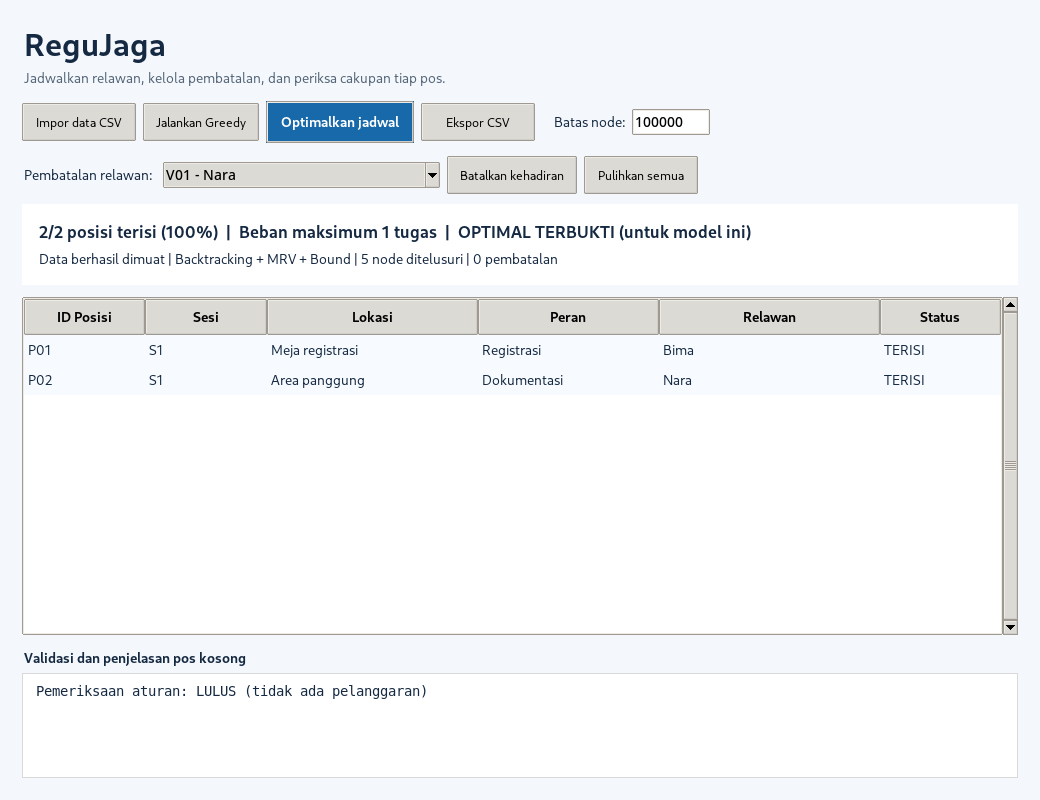
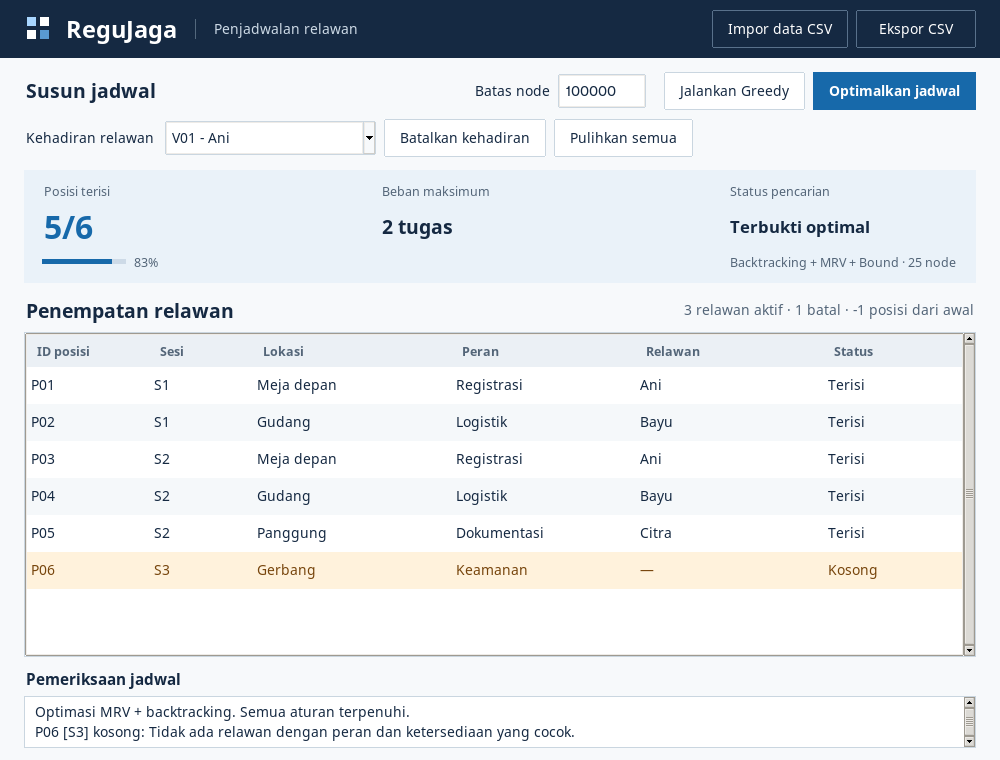
Rapikan GUI Tkinter dan perjelas status penempatan relawan

diff --git a/src/regujaga/ui.py b/src/regujaga/ui.py
@@ -1,7 +1,7 @@
 """Antarmuka desktop Tkinter/ttk untuk koordinator relawan."""
 from pathlib import Path
 import tkinter as tk
-from tkinter import filedialog, messagebox, ttk
+from tkinter import filedialog, font as tkfont, messagebox, ttk
 
 from .baseline import greedy_schedule
 from .csv_io import export_schedule, load_project
@@ -16,7 +16,9 @@ if not DEMO_ROOT.is_dir():
 DEMO = DEMO_ROOT / "01_jebakan_greedy"
 NAVY = "#152942"
 BLUE = "#1769AA"
-BG = "#F4F7FB"
+BG = "#F7F9FB"
+PANEL = "#EAF2F9"
+LINE = "#CAD6E0"
 MUTED = "#536578"
 
 
@@ -24,8 +26,10 @@ class ReguJagaApp:
     def __init__(self, root: tk.Tk):
         self.root = root
         root.title("ReguJaga | Penjadwalan Relawan")
-        root.geometry("1040x800")
-        root.minsize(850, 700)
+        width = min(1000, max(760, root.winfo_screenwidth() - 40))
+        height = min(760, max(550, root.winfo_screenheight() - 100))
+        root.geometry(f"{width}x{height}")
+        root.minsize(760, 550)
         root.configure(bg=BG)
         self.volunteers: list[Volunteer] = []
         self.positions: list[Position] = []
@@ -36,7 +40,10 @@ class ReguJagaApp:
         self.file_positions = DEMO / "positions.csv"
         self.max_nodes_var = tk.StringVar(value="100000")
         self.summary_var = tk.StringVar(value="Muat data untuk memulai")
-        self.detail_var = tk.StringVar(value="Data contoh menggunakan nama fiktif.")
+        self.detail_var = tk.StringVar()
+        self.optimal_var = tk.StringVar()
+        self.load_var = tk.StringVar()
+        self.attendance_var = tk.StringVar()
         self.cancel_var = tk.StringVar()
         self._configure_style()
         self._build()
@@ -45,75 +52,131 @@ class ReguJagaApp:
     def _configure_style(self) -> None:
         style = ttk.Style(self.root)
         style.theme_use("clam")
-        style.configure("TFrame", background=BG)
-        style.configure("TLabel", background=BG, foreground=NAVY, font=("Segoe UI", 10))
-        style.configure("Title.TLabel", background=BG, foreground=NAVY, font=("Segoe UI", 23, "bold"))
-        style.configure("Subtitle.TLabel", background=BG, foreground=MUTED, font=("Segoe UI", 10))
-        style.configure("Card.TFrame", background="white")
-        style.configure("Card.TLabel", background="white", foreground=NAVY, font=("Segoe UI", 10))
-        style.configure("Accent.TButton", padding=(12, 9), font=("Segoe UI", 10, "bold"),
-                        background=BLUE, foreground="white")
-        style.map("Accent.TButton", background=[("active", "#125283")])
-        style.configure("TButton", padding=(10, 8), font=("Segoe UI", 9))
-        style.configure("Treeview", font=("Segoe UI", 10), rowheight=30,
-                        background="white", fieldbackground="white", foreground=NAVY)
-        style.configure("Treeview.Heading", font=("Segoe UI", 10, "bold"), padding=7)
-        style.map("Treeview", background=[("selected", "#D9ECFA")], foreground=[("selected", NAVY)])
+        families = set(tkfont.families(self.root))
+        self.family = next((name for name in ("Segoe UI", "Inter", "Noto Sans")
+                            if name in families), tkfont.nametofont("TkDefaultFont").actual("family"))
+        self.body_font = (self.family, 10)
+        self.root.option_add("*TCombobox*Listbox.font", self.body_font)
+        style.configure(".", font=self.body_font, foreground=NAVY, background=BG)
+        style.configure("TButton", background="white", bordercolor=LINE, lightcolor="white",
+                        darkcolor="white", focuscolor=BLUE, padding=(13, 6), borderwidth=1)
+        style.map("TButton", background=[("pressed", "#D8E6F3"), ("active", "#EDF4FA")],
+                  foreground=[("disabled", MUTED)])
+        style.configure("Accent.TButton", background=BLUE, foreground="white", bordercolor=BLUE,
+                        lightcolor=BLUE, darkcolor=BLUE, focuscolor="white", font=(self.family, 10, "bold"))
+        style.map("Accent.TButton", background=[("pressed", "#114C80"), ("active", "#155D99")])
+        style.configure("TEntry", fieldbackground="white", padding=6, bordercolor=LINE)
+        style.configure("TCombobox", padding=5, arrowsize=13, bordercolor=LINE)
+        style.map("TCombobox", fieldbackground=[("readonly", "white")])
+        style.configure("Treeview", background="white", fieldbackground="white",
+                        borderwidth=0, rowheight=tkfont.Font(font=self.body_font).metrics("linespace") + 17)
+        style.configure("Treeview.Heading", background="#EBF0F5", foreground=MUTED,
+                        font=(self.family, 9, "bold"), padding=(10, 7), relief="flat",
+                        borderwidth=0)
+        style.map("Treeview", background=[("selected", "#CFE4F6")], foreground=[("selected", NAVY)])
+        style.configure("TScrollbar", arrowsize=10, background="#C3D0DA", troughcolor="#F6F8FA",
+                        borderwidth=0, relief="flat")
+        style.configure("Header.TButton", background=NAVY, foreground="white", bordercolor="#59718B",
+                        lightcolor=NAVY, darkcolor=NAVY, focuscolor="white")
+        style.map("Header.TButton", background=[("active", "#2B4968")])
 
     def _build(self) -> None:
-        outer = ttk.Frame(self.root, padding=22)
-        outer.pack(fill="both", expand=True)
-        ttk.Label(outer, text="ReguJaga", style="Title.TLabel").pack(anchor="w")
-        ttk.Label(outer, text="Jadwalkan relawan, kelola pembatalan, dan periksa cakupan tiap pos.",
-                  style="Subtitle.TLabel").pack(anchor="w", pady=(2, 12))
+        header = tk.Frame(self.root, bg=NAVY, padx=24, pady=10)
+        header.pack(fill="x")
+        mark = tk.Canvas(header, width=30, height=30, bg=NAVY, highlightthickness=0)
+        mark.pack(side="left", padx=(0, 10))
+        for x, y, color in ((3, 3, "#A8D6FF"), (16, 3, "white"),
+                            (3, 16, "white"), (16, 16, "#599AD2")):
+            mark.create_rectangle(x, y, x + 9, y + 9, fill=color, outline="")
+        tk.Label(header, text="ReguJaga", bg=NAVY, fg="white",
+                 font=(self.family, 17, "bold")).pack(side="left")
+        tk.Frame(header, bg="#53687D", width=1, height=20).pack(side="left", padx=16)
+        tk.Label(header, text="Penjadwalan relawan", bg=NAVY, fg="#CCD9E5",
+                 font=self.body_font).pack(side="left")
+        ttk.Button(header, text="Ekspor CSV", style="Header.TButton", command=self.export_csv).pack(side="right")
+        ttk.Button(header, text="Impor data CSV", style="Header.TButton", command=self.import_csv).pack(side="right", padx=8)
 
-        toolbar = ttk.Frame(outer)
-        toolbar.pack(fill="x", pady=(0, 10))
-        ttk.Button(toolbar, text="Impor data CSV", command=self.import_csv).pack(side="left", padx=(0, 7))
-        ttk.Button(toolbar, text="Jalankan Greedy", command=self.run_greedy).pack(side="left", padx=(0, 7))
-        ttk.Button(toolbar, text="Optimalkan jadwal", style="Accent.TButton",
-                   command=self.optimize).pack(side="left", padx=(0, 7))
-        ttk.Button(toolbar, text="Ekspor CSV", command=self.export_csv).pack(side="left", padx=(0, 7))
-        ttk.Label(toolbar, text="Batas node:").pack(side="left", padx=(10, 4))
-        ttk.Entry(toolbar, textvariable=self.max_nodes_var, width=9).pack(side="left")
+        outer = ttk.Frame(self.root, padding=(24, 14, 24, 12))
+        outer.pack(fill="both", expand=True)
+        tools = ttk.Frame(outer)
+        tools.pack(fill="x")
+        ttk.Label(tools, text="Susun jadwal", font=(self.family, 14, "bold")).pack(side="left")
+        ttk.Button(tools, text="Optimalkan jadwal", style="Accent.TButton",
+                   command=self.optimize).pack(side="right")
+        ttk.Button(tools, text="Jalankan Greedy", command=self.run_greedy).pack(side="right", padx=8)
+        ttk.Entry(tools, textvariable=self.max_nodes_var, width=8).pack(side="right", padx=(6, 10))
+        ttk.Label(tools, text="Batas node").pack(side="right")
 
         action = ttk.Frame(outer)
-        action.pack(fill="x", pady=(3, 10))
-        ttk.Label(action, text="Pembatalan relawan:").pack(side="left", padx=(0, 8))
-        self.cancel_box = ttk.Combobox(action, textvariable=self.cancel_var, state="readonly", width=32)
-        self.cancel_box.pack(side="left", padx=(0, 7))
-        ttk.Button(action, text="Batalkan kehadiran", command=self.cancel_volunteer).pack(side="left", padx=(0, 7))
-        ttk.Button(action, text="Pulihkan semua", command=self.reset_cancellations).pack(side="left")
+        action.pack(fill="x", pady=(9, 13))
+        ttk.Label(action, text="Kehadiran relawan").pack(side="left", padx=(0, 9))
+        self.cancel_box = ttk.Combobox(action, textvariable=self.cancel_var, state="readonly",
+                                       font=self.body_font, width=23)
+        self.cancel_box.pack(side="left")
+        self.cancel_button = ttk.Button(action, text="Batalkan kehadiran", command=self.cancel_volunteer)
+        self.cancel_button.pack(side="left", padx=8)
+        self.restore_button = ttk.Button(action, text="Pulihkan semua", command=self.reset_cancellations)
+        self.restore_button.pack(side="left")
 
-        summary = ttk.Frame(outer, style="Card.TFrame", padding=15)
-        summary.pack(fill="x", pady=(0, 12))
-        ttk.Label(summary, textvariable=self.summary_var, style="Card.TLabel",
-                  font=("Segoe UI", 12, "bold")).pack(anchor="w")
-        ttk.Label(summary, textvariable=self.detail_var, style="Card.TLabel",
-                  wraplength=940).pack(anchor="w", pady=(4, 0))
+        self._build_summary(outer)
+        self._build_table(outer)
+        ttk.Label(outer, text="Pemeriksaan jadwal", font=(self.family, 11, "bold")).pack(
+            anchor="w", pady=(9, 4))
+        notes = tk.Frame(outer, bg="white", highlightthickness=1, highlightbackground=LINE)
+        notes.pack(fill="x")
+        self.log = tk.Text(notes, height=2, bg="white", fg=NAVY, relief="flat", borderwidth=0,
+                           font=self.body_font, wrap="word", padx=10, pady=5,
+                           highlightthickness=0, state="disabled")
+        scroll = ttk.Scrollbar(notes, orient="vertical", command=self.log.yview)
+        self.log.configure(yscrollcommand=scroll.set)
+        scroll.pack(side="right", fill="y")
+        self.log.pack(side="left", fill="x", expand=True)
 
-        frame = ttk.Frame(outer)
+    def _build_summary(self, parent: ttk.Frame) -> None:
+        band = tk.Frame(parent, bg=PANEL, padx=18, pady=10)
+        band.pack(fill="x")
+        band.columnconfigure(0, weight=1)
+        band.columnconfigure(1, weight=1)
+        for column, label in enumerate(("Posisi terisi", "Beban maksimum", "Status pencarian")):
+            tk.Label(band, text=label, bg=PANEL, fg=MUTED, font=(self.family, 9)).grid(
+                row=0, column=column, sticky="w", padx=(0, 16))
+        tk.Label(band, textvariable=self.summary_var, font=(self.family, 23, "bold"),
+                 bg=PANEL, fg=BLUE).grid(row=1, column=0, sticky="w")
+        coverage = tk.Frame(band, bg=PANEL)
+        coverage.grid(row=2, column=0, sticky="w")
+        self.coverage_bar = tk.Canvas(coverage, width=84, height=5, bg="#CDDAE7",
+                                      highlightthickness=0, borderwidth=0)
+        self.coverage_bar.pack(side="left")
+        self.coverage_fill = self.coverage_bar.create_rectangle(0, 0, 0, 5, fill=BLUE, outline="")
+        self.percentage_label = tk.Label(coverage, bg=PANEL, fg=MUTED, font=(self.family, 9))
+        self.percentage_label.pack(side="left", padx=(6, 0))
+        tk.Label(band, textvariable=self.load_var, bg=PANEL, fg=NAVY,
+                 font=(self.family, 14, "bold")).grid(row=1, column=1, sticky="w")
+        tk.Label(band, textvariable=self.optimal_var, bg=PANEL, fg=NAVY,
+                 font=(self.family, 12, "bold")).grid(row=1, column=2, sticky="w")
+        tk.Label(band, textvariable=self.detail_var, bg=PANEL, fg=MUTED,
+                 font=(self.family, 9)).grid(row=2, column=2, sticky="w")
+
+    def _build_table(self, parent: ttk.Frame) -> None:
+        title = ttk.Frame(parent)
+        title.pack(fill="x", pady=(12, 6))
+        ttk.Label(title, text="Penempatan relawan", font=(self.family, 14, "bold")).pack(side="left")
+        ttk.Label(title, textvariable=self.attendance_var, foreground=MUTED).pack(side="right")
+        frame = tk.Frame(parent, bg="white", highlightthickness=1, highlightbackground=LINE)
         frame.pack(fill="both", expand=True)
-        columns = ("id", "slot", "location", "role", "volunteer", "status")
-        self.tree = ttk.Treeview(frame, columns=columns, show="headings", height=7)
-        headers = {"id": "ID Posisi", "slot": "Sesi", "location": "Lokasi", "role": "Peran", "volunteer": "Relawan", "status": "Status"}
-        widths = {"id": 100, "slot": 100, "location": 190, "role": 160, "volunteer": 200, "status": 100}
-        for c in columns:
-            self.tree.heading(c, text=headers[c])
-            self.tree.column(c, width=widths[c], minwidth=80, stretch=True)
-        self.tree.tag_configure("vacant", background="#FFF0E9", foreground="#9A3623")
-        self.tree.tag_configure("filled", background="#F7FBFF")
+        columns = (("id", "ID posisi", 85), ("slot", "Sesi", 65), ("location", "Lokasi", 160),
+                   ("role", "Peran", 145), ("volunteer", "Relawan", 150), ("status", "Status", 100))
+        self.tree = ttk.Treeview(frame, columns=[c for c, _, _ in columns], show="headings", height=1)
+        for key, heading, width in columns:
+            self.tree.heading(key, text=heading, anchor="w")
+            self.tree.column(key, width=width, minwidth=width // 2, anchor="w")
+        self.tree.tag_configure("vacant", background="#FFF2DC", foreground="#77450C")
+        self.tree.tag_configure("even", background="white")
+        self.tree.tag_configure("odd", background="#F5F8FA")
         scroll = ttk.Scrollbar(frame, orient="vertical", command=self.tree.yview)
         self.tree.configure(yscrollcommand=scroll.set)
         scroll.pack(side="right", fill="y")
         self.tree.pack(side="left", fill="both", expand=True)
-
-        ttk.Label(outer, text="Validasi dan penjelasan pos kosong", font=("Segoe UI", 10, "bold"))\
-            .pack(anchor="w", pady=(12, 4))
-        self.log = tk.Text(outer, height=5, bg="white", fg=NAVY, relief="flat",
-                           font=("Consolas", 10), wrap="word", padx=12, pady=8)
-        self.log.pack(fill="x")
-        self.log.configure(state="disabled")
 
     def _load(self, volunteers_path: Path, positions_path: Path) -> None:
         try:
@@ -133,6 +196,8 @@ class ReguJagaApp:
         labels = [f"{v.id} - {v.name}" for v in self.volunteers if v.id not in self.cancelled]
         self.cancel_box["values"] = labels
         self.cancel_var.set(labels[0] if labels else "")
+        self.cancel_button.state(["!disabled" if labels else "disabled"])
+        self.restore_button.state(["!disabled" if self.cancelled else "disabled"])
 
     def active_volunteers(self) -> list[Volunteer]:
         return [v for v in self.volunteers if v.id not in self.cancelled]
@@ -211,28 +276,29 @@ class ReguJagaApp:
         for item in self.tree.get_children():
             self.tree.delete(item)
         names = {v.id: v.name for v in self.volunteers}
-        for p in self.positions:
+        for index, p in enumerate(self.positions):
             vid = result.assignment[p.id]
+            tag = "odd" if index % 2 else "even"
             self.tree.insert("", "end", values=(p.id, p.slot, p.location, p.role,
-                             names.get(vid, "-- Belum terisi --"), "TERISI" if vid else "KOSONG"),
-                             tags=("filled" if vid else "vacant",))
-        delta = ""
-        if self.initial_result is not None and self.cancelled:
-            delta = f" | Perubahan dari jadwal awal: {result.coverage - self.initial_result.coverage:+d} posisi"
-        label = "OPTIMAL TERBUKTI (untuk model ini)" if result.is_optimal else "HASIL VALID, BELUM TERBUKTI OPTIMAL"
-        self.summary_var.set(
-            f"{result.coverage}/{result.total_positions} posisi terisi ({result.percentage:.0f}%)"
-            f"  |  Beban maksimum {result.max_load} tugas  |  {label}"
-        )
-        self.detail_var.set(
-            f"{context} | {result.algorithm} | {result.nodes_explored} node ditelusuri"
-            f" | {len(self.cancelled)} pembatalan{delta}"
-        )
-        errors = verify_schedule(self.active_volunteers(), self.positions, result.assignment)
-        messages = ["Pemeriksaan aturan: " + ("LULUS (tidak ada pelanggaran)" if not errors else "; ".join(errors))]
+                             names.get(vid, "—"), "Terisi" if vid else "Kosong"),
+                             tags=(tag if vid else "vacant",))
+        self.summary_var.set(f"{result.coverage}/{result.total_positions}")
+        self.coverage_bar.coords(self.coverage_fill, 0, 0, round(84 * result.percentage / 100), 5)
+        self.percentage_label.configure(text=f"{result.percentage:.0f}%")
+        self.load_var.set(f"{result.max_load} tugas")
+        self.optimal_var.set("Terbukti optimal" if result.is_optimal else "Belum terbukti optimal")
+        self.detail_var.set(f"{result.algorithm} · {result.nodes_explored} node")
+        active = self.active_volunteers()
+        attendance = f"{len(active)} relawan aktif · {len(self.cancelled)} batal"
+        if self.cancelled and self.initial_result is not None:
+            change = result.coverage - self.initial_result.coverage
+            attendance += f" · {change:+d} posisi dari awal"
+        self.attendance_var.set(attendance)
+        errors = verify_schedule(active, self.positions, result.assignment)
+        messages = [context + ". " + ("Semua aturan terpenuhi." if not errors else "; ".join(errors))]
         for p in self.positions:
             if result.assignment[p.id] is None:
-                messages.append(f"{p.id} [{p.slot}] kosong: {describe_vacancy(p, self.active_volunteers(), result.assignment, self.positions)}")
+                messages.append(f"{p.id} [{p.slot}] kosong: {describe_vacancy(p, active, result.assignment, self.positions)}")
         if not result.is_optimal and result.algorithm != "Greedy (baseline)":
             messages.append("PERINGATAN: batas node tercapai; pencarian belum selesai.")
         self.log.configure(state="normal")

diff --git a/tests/test_ui.py b/tests/test_ui.py
@@ -36,6 +36,7 @@ class GuiTest(unittest.TestCase):
         self.assertIn("2/2", self.app.summary_var.get())
 
     def test_schedule_cancel_export_restore(self):
+        self.assertTrue(self.buttons["Pulihkan semua"].instate(["disabled"]))
         self.buttons["Jalankan Greedy"].invoke()
         self.assertIn("1/2", self.app.summary_var.get())
         self.buttons["Optimalkan jadwal"].invoke()
@@ -43,6 +44,9 @@ class GuiTest(unittest.TestCase):
         self.app.cancel_box.current(1)
         self.buttons["Batalkan kehadiran"].invoke()
         self.assertIn("1/2", self.app.summary_var.get())
+        self.assertEqual(self.app.percentage_label.cget("text"), "50%")
+        self.assertIn("1 relawan aktif", self.app.attendance_var.get())
+        self.assertIn("vacant", self.app.tree.item(self.app.tree.get_children()[1], "tags"))
         self.assertIn("P02 [S1] kosong", self.app.log.get("1.0", "end"))
         with tempfile.TemporaryDirectory() as folder:
             path = Path(folder) / "jadwal.csv"
@@ -56,6 +60,7 @@ class GuiTest(unittest.TestCase):
                               for r in rows], [("P01", "V01", "Nara", "TERISI"), ("P02", "", "", "KOSONG")])
         self.buttons["Batalkan kehadiran"].invoke()
         self.assertEqual(self.app.current_result.coverage, 0)
+        self.assertTrue(self.buttons["Batalkan kehadiran"].instate(["disabled"]))
         self.buttons["Pulihkan semua"].invoke()
         self.assertEqual(self.app.current_result, self.app.initial_result)
 
@@ -80,7 +85,7 @@ class GuiTest(unittest.TestCase):
                        side_effect=[str(path), str(self.app.file_positions)]):
                 self.buttons["Impor data CSV"].invoke()
             self.assertEqual(self.app.current_result.nodes_explored, 0)
-            self.assertIn("BELUM TERBUKTI OPTIMAL", self.app.summary_var.get())
+            self.assertEqual(self.app.optimal_var.get(), "Belum terbukti optimal")
             self.buttons["Batalkan kehadiran"].invoke()
             self.assertEqual(self.app.cancelled, {"A - 1"})
             self.assertEqual(self.app.current_result.coverage, 0)

diff --git a/docs/SKENARIO_DEMO.md b/docs/SKENARIO_DEMO.md
@@ -10,7 +10,7 @@
 | 03:15–04:30 | Klik **Optimalkan jadwal** | Hasil **2/2**, Nara di Dokumentasi dan Bima di Registrasi |
 | 04:30–05:30 | Batalkan **Bima** | Hasil sah **1/2**, ekspor CSV, lalu **Pulihkan semua** menjadi **2/2** |
 | 05:30–06:30 | Uji contoh 03 yang mustahil diisi semua | Tampilkan **2/4**, solusi parsial tidak dipaksakan |
-| 06:30–07:45 | Atur batas node `0` dan klik **Optimalkan jadwal** | Status **BELUM TERBUKTI OPTIMAL**, meski hasil tetap valid |
+| 06:30–07:45 | Atur batas node `0` dan klik **Optimalkan jadwal** | Status **Belum terbukti optimal**, meski hasil tetap valid |
 | 07:45–09:15 | Terangkan diagram alur: CSV → validasi → greedy/solver → verifier → GUI/ekspor | Tunjukkan `models.py`, `rules.py`, `baseline.py`, `solver.py`, `csv_io.py`, `ui.py` |
 | 09:15–10:15 | Jalankan tests dan jelaskan satu uji yang dahulu gagal (hanya jika benar ada) | Pengujian riil dan perbaikan di commit, tanpa mengarang sejarah |
 | 10:15–11:15 | Buka CSV hasil pembatalan, jelaskan keterbatasan dan status validasi pengguna | CSV hasil, contoh hasil, potensi batas search |

diff --git a/docs/RENCANA_KERJA.md b/docs/RENCANA_KERJA.md
@@ -30,7 +30,7 @@ Jika **3 anggota**, gabungkan peran 4 pada anggota 1–3. Setiap orang harus bis
 - [ ] Ada pengguna/masalah nyata yang terkonfirmasi; jangan mengaku data demo sebagai data lapangan.
 - [ ] Solusi lolos `python -m unittest discover -s tests -v` di sedikitnya dua mesin.
 - [ ] Terlihat *failure case* greedy, alternatif solver, dan kegagalan solusi penuh.
-- [ ] Untuk batas node kecil, label **BELUM TERBUKTI OPTIMAL** muncul.
+- [ ] Untuk batas node kecil, label **Belum terbukti optimal** muncul.
 - [ ] Repo publik, semua anggota punya commit dengan pekerjaan nyata, pull request direview.
 - [ ] README relevan dengan hasil akhir; tidak memuat fitur yang belum berfungsi.
 - [ ] Video <= 15 menit; URL dapat dibuka publik.

diff --git a/README.md b/README.md
@@ -2,7 +2,7 @@
 
 **Penjadwalan relawan otomatis yang transparan, dapat diverifikasi, dan dapat diperbaiki setelah pembatalan.**
 
-![Tampilan ReguJaga](docs/preview.png)
+![Jadwal setelah satu pembatalan pada contoh 02. Lima dari enam posisi terisi, dan pos keamanan yang kosong ditandai di tabel.](docs/preview.png)
 
 Proyek kelompok Dasar-Dasar Pemrograman 1 (CSGE601020), Fakultas Ilmu Komputer, Universitas Indonesia — Semester Gasal 2026/2027.
 
